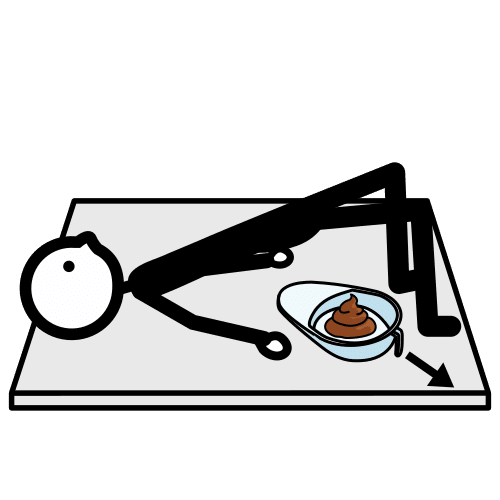
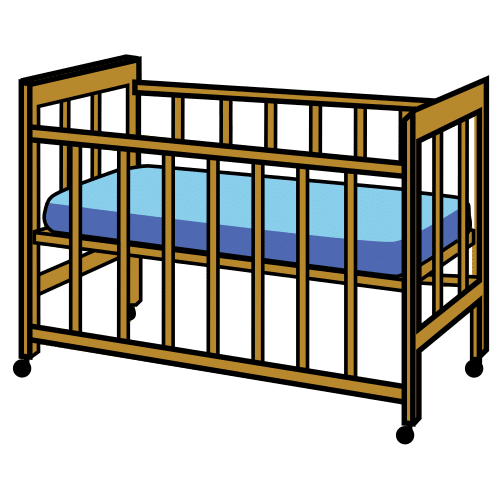
cuñaaa xD

diff --git a/js/datos.js b/js/datos.js
@@ -153,7 +153,7 @@ export const PALABRAS = [
 
   // CASA
   { palabra: "SILLA", tipo: "directa", silabas: 2, categoria: "casa",       pictograma: "silla.png", buscar: "silla",        variantes: ["silla"] },
-  { palabra: "CUNA",  tipo: "directa", silabas: 2, categoria: "casa",       pictograma: "cuna.png",  buscar: "cuna bebé",    variantes: ["cuna"] },
+  { palabra: "CUNA",  tipo: "directa", silabas: 2, categoria: "casa",       pictograma: "cuna.png",  buscar: "cuna", arasaac: 5980, variantes: ["cuna"] },
 
   // TRANSPORTE
   { palabra: "COCHE", tipo: "directa", silabas: 2, categoria: "transporte", pictograma: "coche.png", buscar: "coche",        variantes: ["coche"] },
@@ -183,6 +183,112 @@ export const PALABRAS = [
   { palabra: "CINCO", tipo: "directa", silabas: 2, categoria: "numeros",    pictograma: "cinco.png", buscar: "cinco", arasaac: 2631, variantes: ["cinco"] },
   { palabra: "OCHO",  tipo: "directa", silabas: 2, categoria: "numeros",    pictograma: "ocho.png",  buscar: "ocho",  arasaac: 2634, variantes: ["ocho"] },
   { palabra: "NUEVE", tipo: "directa", silabas: 2, categoria: "numeros",    pictograma: "nueve.png", buscar: "nueve", arasaac: 2635, variantes: ["nueve"] },
+
+  // ===========================================================================
+  //  COLORES  ·  pictograma = mancha/cuadro del color (ids fijos de ARASAAC)
+  // ===========================================================================
+  { palabra: "ROJO",     tipo: "directa", silabas: 2, categoria: "colores", pictograma: "rojo.png",     buscar: "rojo",     arasaac: 2808, variantes: ["rojo", "roja"] },
+  { palabra: "AZUL",     tipo: "inversa", silabas: 2, categoria: "colores", pictograma: "azul.png",     buscar: "azul",     arasaac: 4869, variantes: ["azul"] },
+  { palabra: "VERDE",    tipo: "inversa", silabas: 2, categoria: "colores", pictograma: "verde.png",    buscar: "verde",    arasaac: 4887, variantes: ["verde"] },
+  { palabra: "AMARILLO", tipo: "directa", silabas: 4, categoria: "colores", pictograma: "amarillo.png", buscar: "amarillo", arasaac: 2648, variantes: ["amarillo", "amarilla"] },
+  { palabra: "NARANJA",  tipo: "directa", silabas: 3, categoria: "colores", pictograma: "naranja.png",  buscar: "naranja",  arasaac: 2888, variantes: ["naranja"] },
+  { palabra: "ROSA",     tipo: "directa", silabas: 2, categoria: "colores", pictograma: "rosa.png",     buscar: "rosa",     arasaac: 3151, variantes: ["rosa"] },
+  { palabra: "MORADO",   tipo: "directa", silabas: 3, categoria: "colores", pictograma: "morado.png",   buscar: "morado",   arasaac: 2907, variantes: ["morado", "morada", "violeta"] },
+  { palabra: "MARRÓN",   tipo: "directa", silabas: 2, categoria: "colores", pictograma: "marron.png",   buscar: "marrón",   arasaac: 2923, variantes: ["marron", "marrón"] },
+  { palabra: "NEGRO",    tipo: "trabada", silabas: 2, categoria: "colores", pictograma: "negro.png",    buscar: "negro",    arasaac: 2886, variantes: ["negro", "negra"] },
+  { palabra: "BLANCO",   tipo: "trabada", silabas: 2, categoria: "colores", pictograma: "blanco.png",   buscar: "blanco",   arasaac: 8043, variantes: ["blanco", "blanca"] },
+
+  // ===========================================================================
+  //  VERBOS  ·  acciones (pictograma de la acción)
+  // ===========================================================================
+  { palabra: "COMER",    tipo: "directa", silabas: 2, categoria: "verbos", pictograma: "comer.png",    buscar: "comer",    arasaac: 6456,  variantes: ["comer"] },
+  { palabra: "BEBER",    tipo: "directa", silabas: 2, categoria: "verbos", pictograma: "beber.png",    buscar: "beber",    arasaac: 6061,  variantes: ["beber"] },
+  { palabra: "CORRER",   tipo: "directa", silabas: 2, categoria: "verbos", pictograma: "correr.png",   buscar: "correr",   arasaac: 6465,  variantes: ["correr"] },
+  { palabra: "SALTAR",   tipo: "inversa", silabas: 2, categoria: "verbos", pictograma: "saltar.png",   buscar: "saltar",   arasaac: 39052, variantes: ["saltar"] },
+  { palabra: "JUGAR",    tipo: "directa", silabas: 2, categoria: "verbos", pictograma: "jugar.png",    buscar: "jugar",    arasaac: 23392, variantes: ["jugar"] },
+  { palabra: "DORMIR",   tipo: "trabada", silabas: 2, categoria: "verbos", pictograma: "dormir.png",   buscar: "dormir",   arasaac: 6479,  variantes: ["dormir"] },
+  { palabra: "LLORAR",   tipo: "trabada", silabas: 2, categoria: "verbos", pictograma: "llorar.png",   buscar: "llorar",   arasaac: 7147,  variantes: ["llorar"] },
+  { palabra: "REÍR",     tipo: "directa", silabas: 2, categoria: "verbos", pictograma: "reir.png",     buscar: "reír",     arasaac: 13354, variantes: ["reir", "reír", "sonreir"] },
+  { palabra: "CANTAR",   tipo: "directa", silabas: 2, categoria: "verbos", pictograma: "cantar.png",   buscar: "cantar",   arasaac: 6960,  variantes: ["cantar"] },
+  { palabra: "BAILAR",   tipo: "directa", silabas: 2, categoria: "verbos", pictograma: "bailar.png",   buscar: "bailar",   arasaac: 6052,  variantes: ["bailar"] },
+  { palabra: "PINTAR",   tipo: "directa", silabas: 2, categoria: "verbos", pictograma: "pintar.png",   buscar: "pintar",   arasaac: 2348,  variantes: ["pintar"] },
+  { palabra: "LAVAR",    tipo: "directa", silabas: 2, categoria: "verbos", pictograma: "lavar.png",    buscar: "lavar",    arasaac: 34826, variantes: ["lavar"] },
+  { palabra: "ANDAR",    tipo: "inversa", silabas: 2, categoria: "verbos", pictograma: "andar.png",    buscar: "andar",    arasaac: 6044,  variantes: ["andar", "caminar"] },
+  { palabra: "SUBIR",    tipo: "directa", silabas: 2, categoria: "verbos", pictograma: "subir.png",    buscar: "subir",    arasaac: 24725, variantes: ["subir"] },
+  { palabra: "MIRAR",    tipo: "directa", silabas: 2, categoria: "verbos", pictograma: "mirar.png",    buscar: "mirar",    arasaac: 6564,  variantes: ["mirar", "ver"] },
+  { palabra: "ABRIR",    tipo: "trabada", silabas: 2, categoria: "verbos", pictograma: "abrir.png",    buscar: "abrir",    arasaac: 24825, variantes: ["abrir"] },
+  { palabra: "TRABAJAR", tipo: "trabada", silabas: 3, categoria: "verbos", pictograma: "trabajar.png", buscar: "trabajar", arasaac: 6624,  variantes: ["trabajar"] },
+
+  // ===========================================================================
+  //  MÁS VOCABULARIO  ·  sustantivos comunes
+  // ===========================================================================
+  { palabra: "MANZANA",  tipo: "directa", silabas: 3, categoria: "comida",    pictograma: "manzana.png",  buscar: "manzana",  arasaac: 2462,  variantes: ["manzana"] },
+  { palabra: "PLÁTANO",  tipo: "trabada", silabas: 3, categoria: "comida",    pictograma: "platano.png",  buscar: "plátano",  arasaac: 2530,  variantes: ["platano", "plátano"] },
+  { palabra: "GALLETA",  tipo: "directa", silabas: 3, categoria: "comida",    pictograma: "galleta.png",  buscar: "galleta",  arasaac: 8312,  variantes: ["galleta"] },
+  { palabra: "TOMATE",   tipo: "directa", silabas: 3, categoria: "comida",    pictograma: "tomate.png",   buscar: "tomate",   arasaac: 2594,  variantes: ["tomate"] },
+  { palabra: "ZAPATO",   tipo: "directa", silabas: 3, categoria: "ropa",      pictograma: "zapato.png",   buscar: "zapato",   arasaac: 32923, variantes: ["zapato"] },
+  { palabra: "LEÓN",     tipo: "directa", silabas: 2, categoria: "animales",  pictograma: "leon.png",     buscar: "león",     arasaac: 25187, variantes: ["leon", "león"] },
+  { palabra: "RATÓN",    tipo: "directa", silabas: 2, categoria: "animales",  pictograma: "raton.png",    buscar: "ratón",    arasaac: 2546,  variantes: ["raton", "ratón"] },
+  { palabra: "CONEJO",   tipo: "directa", silabas: 3, categoria: "animales",  pictograma: "conejo.png",   buscar: "conejo",   arasaac: 2351,  variantes: ["conejo"] },
+  { palabra: "CERDO",    tipo: "trabada", silabas: 2, categoria: "animales",  pictograma: "cerdo.png",    buscar: "cerdo",    arasaac: 24972, variantes: ["cerdo"] },
+  { palabra: "CABALLO",  tipo: "directa", silabas: 3, categoria: "animales",  pictograma: "caballo.png",  buscar: "caballo",  arasaac: 2294,  variantes: ["caballo"] },
+  { palabra: "ELEFANTE", tipo: "directa", silabas: 4, categoria: "animales",  pictograma: "elefante.png", buscar: "elefante", arasaac: 2372,  variantes: ["elefante"] },
+  { palabra: "PELOTA",   tipo: "directa", silabas: 3, categoria: "juguetes",  pictograma: "pelota.png",   buscar: "pelota",   arasaac: 3241,  variantes: ["pelota"] },
+
+  // ===========================================================================
+  //  CUARTOS DE LA CASA  ·  habitaciones
+  // ===========================================================================
+  { palabra: "COCINA",     tipo: "directa", silabas: 3, categoria: "habitaciones", pictograma: "cocina.png",     buscar: "cocina",     arasaac: 10752, variantes: ["cocina"] },
+  { palabra: "SALÓN",      tipo: "directa", silabas: 2, categoria: "habitaciones", pictograma: "salon.png",      buscar: "salón",      arasaac: 6211,  variantes: ["salon", "salón"] },
+  { palabra: "BAÑO",       tipo: "directa", silabas: 2, categoria: "habitaciones", pictograma: "bano.png",       buscar: "cuarto de baño", arasaac: 6929, variantes: ["baño", "bano"] },
+  { palabra: "DORMITORIO", tipo: "trabada", silabas: 4, categoria: "habitaciones", pictograma: "dormitorio.png", buscar: "dormitorio", arasaac: 5988,  variantes: ["dormitorio", "habitacion"] },
+  { palabra: "JARDÍN",     tipo: "inversa", silabas: 2, categoria: "habitaciones", pictograma: "jardin.png",     buscar: "jardín",     arasaac: 2434,  variantes: ["jardin", "jardín"] },
+  { palabra: "GARAJE",     tipo: "directa", silabas: 3, categoria: "habitaciones", pictograma: "garaje.png",     buscar: "garaje",     arasaac: 6003,  variantes: ["garaje"] },
+
+  // ===========================================================================
+  //  EL BAÑO  ·  objetos del cuarto de baño
+  // ===========================================================================
+  { palabra: "DUCHA",   tipo: "directa", silabas: 2, categoria: "bano", pictograma: "ducha.png",   buscar: "ducha",   arasaac: 32426, variantes: ["ducha"] },
+  { palabra: "VÁTER",   tipo: "directa", silabas: 2, categoria: "bano", pictograma: "vater.png",   buscar: "váter",   arasaac: 2430,  variantes: ["vater", "váter", "water", "inodoro"] },
+  { palabra: "LAVABO",  tipo: "directa", silabas: 3, categoria: "bano", pictograma: "lavabo.png",  buscar: "lavabo",  arasaac: 2441,  variantes: ["lavabo"] },
+  { palabra: "BAÑERA",  tipo: "directa", silabas: 3, categoria: "bano", pictograma: "banera.png",  buscar: "bañera",  arasaac: 2272,  variantes: ["bañera", "banera"] },
+  { palabra: "ESPEJO",  tipo: "inversa", silabas: 3, categoria: "bano", pictograma: "espejo.png",  buscar: "espejo",  arasaac: 8573,  variantes: ["espejo"] },
+  { palabra: "TOALLA",  tipo: "directa", silabas: 3, categoria: "bano", pictograma: "toalla.png",  buscar: "toalla",  arasaac: 2593,  variantes: ["toalla"] },
+  { palabra: "JABÓN",   tipo: "directa", silabas: 2, categoria: "bano", pictograma: "jabon.png",   buscar: "jabón",   arasaac: 8094,  variantes: ["jabon", "jabón"] },
+  { palabra: "CEPILLO", tipo: "directa", silabas: 3, categoria: "bano", pictograma: "cepillo.png", buscar: "cepillo de dientes", arasaac: 2694, variantes: ["cepillo"] },
+
+  // ===========================================================================
+  //  COCINA  ·  objetos
+  // ===========================================================================
+  { palabra: "NEVERA",  tipo: "directa", silabas: 3, categoria: "cocina", pictograma: "nevera.png",  buscar: "nevera",  arasaac: 3272, variantes: ["nevera", "frigorifico"] },
+  { palabra: "HORNO",   tipo: "inversa", silabas: 2, categoria: "cocina", pictograma: "horno.png",   buscar: "horno",   arasaac: 2426, variantes: ["horno"] },
+  { palabra: "SARTÉN",  tipo: "inversa", silabas: 2, categoria: "cocina", pictograma: "sarten.png",  buscar: "sartén",  arasaac: 2558, variantes: ["sarten", "sartén"] },
+  { palabra: "CUCHARA", tipo: "directa", silabas: 3, categoria: "cocina", pictograma: "cuchara.png", buscar: "cuchara", arasaac: 2362, variantes: ["cuchara"] },
+  { palabra: "TENEDOR", tipo: "directa", silabas: 3, categoria: "cocina", pictograma: "tenedor.png", buscar: "tenedor", arasaac: 2588, variantes: ["tenedor"] },
+  { palabra: "VASO",    tipo: "directa", silabas: 2, categoria: "cocina", pictograma: "vaso.png",    buscar: "vaso",    arasaac: 2610, variantes: ["vaso"] },
+
+  // ===========================================================================
+  //  LA CASA  ·  objetos del salón y la casa
+  // ===========================================================================
+  { palabra: "SOFÁ",     tipo: "directa", silabas: 2, categoria: "casa", pictograma: "sofa.png",     buscar: "sofá",     arasaac: 25479, variantes: ["sofa", "sofá"] },
+  { palabra: "TELE",     tipo: "directa", silabas: 2, categoria: "casa", pictograma: "tele.png",     buscar: "televisión", arasaac: 25498, variantes: ["tele", "television", "televisor"] },
+  { palabra: "LÁMPARA",  tipo: "directa", silabas: 3, categoria: "casa", pictograma: "lampara.png",  buscar: "lámpara",  arasaac: 4936,  variantes: ["lampara", "lámpara"] },
+  { palabra: "PUERTA",   tipo: "directa", silabas: 2, categoria: "casa", pictograma: "puerta.png",   buscar: "puerta",   arasaac: 3244,  variantes: ["puerta"] },
+  { palabra: "VENTANA",  tipo: "directa", silabas: 3, categoria: "casa", pictograma: "ventana.png",  buscar: "ventana",  arasaac: 2611,  variantes: ["ventana"] },
+  { palabra: "RELOJ",    tipo: "directa", silabas: 2, categoria: "casa", pictograma: "reloj.png",    buscar: "reloj",    arasaac: 2549,  variantes: ["reloj"] },
+  { palabra: "ARMARIO",  tipo: "inversa", silabas: 3, categoria: "casa", pictograma: "armario.png",  buscar: "armario",  arasaac: 2258,  variantes: ["armario", "ropero"] },
+  { palabra: "ESCALERA", tipo: "inversa", silabas: 4, categoria: "casa", pictograma: "escalera.png", buscar: "escalera", arasaac: 2379,  variantes: ["escalera"] },
+  { palabra: "LLAVE",    tipo: "directa", silabas: 2, categoria: "casa", pictograma: "llave.png",    buscar: "llave",    arasaac: 8153,  variantes: ["llave"] },
+
+  // ===========================================================================
+  //  LUGARES  ·  sitios fuera de casa
+  // ===========================================================================
+  { palabra: "PARQUE",   tipo: "inversa", silabas: 2, categoria: "lugares", pictograma: "parque.png",   buscar: "parque",   arasaac: 2859,  variantes: ["parque"] },
+  { palabra: "COLEGIO",  tipo: "directa", silabas: 3, categoria: "lugares", pictograma: "colegio.png",  buscar: "colegio",  arasaac: 32446, variantes: ["colegio", "cole", "escuela"] },
+  { palabra: "GRANJA",   tipo: "trabada", silabas: 2, categoria: "lugares", pictograma: "granja.png",   buscar: "granja",   arasaac: 32482, variantes: ["granja"] },
+  { palabra: "PISCINA",  tipo: "directa", silabas: 3, categoria: "lugares", pictograma: "piscina.png",  buscar: "piscina",  arasaac: 30516, variantes: ["piscina"] },
+  { palabra: "MONTAÑA",  tipo: "directa", silabas: 3, categoria: "lugares", pictograma: "montana.png",  buscar: "montaña",  arasaac: 2909,  variantes: ["montaña", "montana"] },
+  { palabra: "ZOO",      tipo: "directa", silabas: 1, categoria: "lugares", pictograma: "zoo.png",      buscar: "zoo",      arasaac: 4773,  variantes: ["zoo", "zoologico"] },
 ];
 
 // Tipos de sílaba disponibles (para los botones del panel del adulto)
@@ -330,13 +436,17 @@ export const CATEGORIAS = [
   { id: "comida",     nombre: "Comida",     emoji: "🍎" },
   { id: "cuerpo",     nombre: "El cuerpo",  emoji: "✋" },
   { id: "casa",       nombre: "La casa",    emoji: "🏠" },
+  { id: "habitaciones", nombre: "Cuartos",  emoji: "🚪" },
   { id: "cocina",     nombre: "Cocina",     emoji: "🍽️" },
+  { id: "bano",       nombre: "El baño",    emoji: "🚿" },
   { id: "naturaleza", nombre: "Naturaleza", emoji: "🌳" },
+  { id: "lugares",    nombre: "Lugares",    emoji: "🏞️" },
   { id: "cuentos",    nombre: "Cuentos",    emoji: "🧙" },
   { id: "objetos",    nombre: "Objetos",    emoji: "🧲" },
   { id: "juguetes",   nombre: "Juguetes",   emoji: "🪁" },
   { id: "transporte", nombre: "Transporte", emoji: "🚗" },
   { id: "ropa",       nombre: "Ropa",       emoji: "👕" },
+  { id: "verbos",     nombre: "Acciones",   emoji: "🏃" },
   { id: "colores",    nombre: "Colores",    emoji: "🎨" },
   { id: "numeros",    nombre: "Números",    emoji: "🔢" },
   { id: "deportes",   nombre: "Deportes",   emoji: "⚽" },

diff --git a/js/app.js b/js/app.js
@@ -42,6 +42,7 @@ const reconocedor = new Reconocedor();
 // a pulsar el micro. En "diversión máxima" se enciende automáticamente.
 let escuchando = false;       // ¿el motor de escucha está encendido?
 let intentosVacios = 0;       // silencios seguidos (para no escuchar eternamente)
+let enCelebracion = false;    // evita avanzar dos veces si se pulsa rápido (✓✓)
 
 // ---- Progreso por palabra (qué domina y qué le cuesta a Daniela) -----------
 // Se guarda en el navegador. Alimenta la "práctica inteligente" y el "entreno".
@@ -338,10 +339,31 @@ function prepararMazo() {
 
 function palabraActual() { return mazo[indice]; }
 
+// Precarga los dibujos de las PRÓXIMAS palabras para que aparezcan al instante.
+function precargarSiguientePicto() {
+  for (let i = 1; i <= 2; i++) {
+    const sig = mazo[indice + i];
+    if (sig && sig.pictograma) { const im = new Image(); im.src = `img/pictogramas/${sig.pictograma}`; }
+  }
+}
+
+// Texto que la app PRONUNCIA. Las sílabas se dicen en minúscula para que el
+// sintetizador las lea como sílaba ("ma") y no deletreadas ("eme a").
+function vozDe(p) {
+  if (!p) return "";
+  return p.esSilaba ? p.texto.toLowerCase() : p.palabra;
+}
+
 function mostrarPalabra() {
   const p = palabraActual();
   if (!p) return;
   fallosEstaPalabra = 0;
+  enCelebracion = false;        // nueva palabra: listo para volver a aceptar aciertos
+
+  // Entrada suave del contenido (fundido) cada vez que cambia la palabra
+  elTarjeta.classList.remove("entra");
+  void elTarjeta.offsetWidth;   // reinicia la animación
+  elTarjeta.classList.add("entra");
 
   if (p.esSilaba) {
     // ── Modo Lectura Silábica: sin pictograma, texto grande ──────────────────
@@ -359,6 +381,8 @@ function mostrarPalabra() {
     else if (ajustes.imagen === "entreno") conDibujo = nivelDom(p) < UMBRAL_DOMINADA;
     elPicto.style.display = conDibujo ? "" : "none";
     elTarjeta.classList.toggle("solo-texto", !conDibujo);
+
+    precargarSiguientePicto();   // transición instantánea a la próxima palabra
   }
 
   elEstado.textContent = ajustes.diversion
@@ -401,6 +425,9 @@ function actualizarBotonSonido() {
 //  ¡ACIERTO!  ·  celebración y avance
 // ============================================================================
 function acertar() {
+  if (enCelebracion) return;     // ya estamos celebrando: ignora toques repetidos
+  enCelebracion = true;
+  if (navigator.vibrate) navigator.vibrate(60);   // vibración suave de premio (Android)
   reconocedor.parar();           // detiene la captación actual (el motor sigue "encendido")
   elMic.classList.remove("pista", "escuchando");
   const p = palabraActual();
@@ -496,6 +523,20 @@ function puedeEscuchar() {
   return escuchando && !panel.classList.contains("abierto");
 }
 
+// ---- Mantener la pantalla encendida mientras se juega -----------------------
+let wakeLock = null;
+async function pedirWakeLock() {
+  try {
+    if ("wakeLock" in navigator && document.visibilityState === "visible") {
+      wakeLock = await navigator.wakeLock.request("screen");
+    }
+  } catch { /* sin soporte o denegado: no pasa nada */ }
+}
+// Si se vuelve a la app (cambió de pestaña), recupera el bloqueo
+document.addEventListener("visibilitychange", () => {
+  if (document.visibilityState === "visible") pedirWakeLock();
+});
+
 // Pulsar el micro: enciende o apaga el motor (interruptor)
 function alPulsarMic() {
   if (escuchando) { pararMotorEscucha(); return; }
@@ -505,6 +546,7 @@ function alPulsarMic() {
   }
   escuchando = true;
   intentosVacios = 0;
+  pedirWakeLock();
   escucharUnaVez();
 }
 
@@ -561,7 +603,7 @@ function reintentar(p) {
   if (!ajustes.diversion) elEstado.textContent = "Casi… escucha 👂";
   elTarjeta.classList.add("anima-pista");
   setTimeout(() => elTarjeta.classList.remove("anima-pista"), 700);
-  decirEnVozAlta(`Escucha. ${p.palabra}.`, {
+  decirEnVozAlta(`Escucha. ${vozDe(p)}.`, {
     rate: 0.7,
     alFinal: () => { if (puedeEscuchar()) escucharUnaVez(); },
   });
@@ -576,6 +618,7 @@ function aplicarModoDiversion() {
   if (ajustes.diversion) {
     if (!escuchando && reconocedor.soportado) { escuchando = true; intentosVacios = 0; }
     elEstado.textContent = "¡Di la palabra y explota el globo! 🎈";
+    pedirWakeLock();
     if (puedeEscuchar()) escucharUnaVez();
   } else {
     pararMotorEscucha();
@@ -826,15 +869,20 @@ function construirPanel() {
 // ============================================================================
 function iniciar() {
   elMic.addEventListener("click", alPulsarMic);
+  // Si un dibujo no carga, muestra solo la palabra (nunca un icono roto)
+  elPicto.addEventListener("error", () => {
+    elPicto.style.display = "none";
+    elTarjeta.classList.add("solo-texto");
+  });
   // Tocar el pictograma también suena la palabra (además del botón 🔊)
-  elPicto.addEventListener("click", () => decirEnVozAlta(palabraActual()?.palabra || ""));
+  elPicto.addEventListener("click", () => decirEnVozAlta(vozDe(palabraActual())));
   // Explotar el globo de recompensa
   elGlobo.addEventListener("click", explotarGlobo);
   capaGlobo.addEventListener("click", explotarGlobo);
 
   $("#boton-correcto").addEventListener("click", acertar);      // ✓ del adulto
-  $("#boton-saltar").addEventListener("click", siguiente);      // ⏭️ saltar
-  $("#boton-oir").addEventListener("click", () => decirEnVozAlta(palabraActual()?.palabra || ""));
+  $("#boton-saltar").addEventListener("click", () => { if (!enCelebracion) siguiente(); }); // ⏭️ saltar
+  $("#boton-oir").addEventListener("click", () => decirEnVozAlta(vozDe(palabraActual())));
 
   // Botón en pantalla: activar/desactivar el sonido modelo (modo "Por sonidos")
   elBotonSonido.addEventListener("click", () => {

diff --git a/js/reconocimiento.js b/js/reconocimiento.js
@@ -143,11 +143,33 @@ export class Reconocedor {
 // ============================================================================
 //  VOZ DE MODELO  ·  la app pronuncia la palabra para que la niña la oiga
 // ============================================================================
+
+// Elegimos UNA buena voz en español y la reutilizamos. Las voces se cargan de
+// forma asíncrona en algunos navegadores, por eso escuchamos onvoiceschanged.
+let vozES = null;
+function elegirMejorVoz() {
+  if (!("speechSynthesis" in window)) return;
+  const voces = window.speechSynthesis.getVoices();
+  if (!voces.length) return;
+  const es = voces.filter((v) => /^es/i.test(v.lang));
+  // Preferimos español de España y, dentro de eso, voces de mayor calidad.
+  vozES =
+    es.find((v) => /es[-_]ES/i.test(v.lang) &&
+      /google|natural|premium|enhanced|neural|mónica|monica|helena|lucia|sabina/i.test(v.name)) ||
+    es.find((v) => /es[-_]ES/i.test(v.lang)) ||
+    es[0] || null;
+}
+if ("speechSynthesis" in window) {
+  elegirMejorVoz();
+  window.speechSynthesis.onvoiceschanged = elegirMejorVoz;
+}
+
 export function decirEnVozAlta(texto, { rate = 0.8, pitch = 1.1, alFinal } = {}) {
   if (!("speechSynthesis" in window)) { alFinal && alFinal(); return; }
   window.speechSynthesis.cancel();
   const u = new SpeechSynthesisUtterance(texto);
   u.lang = "es-ES";
+  if (vozES) u.voice = vozES;   // mejor voz disponible (si la hay)
   u.rate = rate;   // un poco más lento, para que se entienda bien
   u.pitch = pitch;
   if (alFinal) u.onend = alFinal;

diff --git a/sw.js b/sw.js
@@ -1,8 +1,27 @@
 // Service worker mínimo: guarda los archivos para que la app funcione sin
 // internet una vez abierta la primera vez. Sube la versión al cambiar archivos.
-const CACHE = "daniela-hablar-v2";
+const CACHE = "daniela-hablar-v3";
+
+// Archivos básicos de la app (el "esqueleto"). Si alguno fallara, no rompe la
+// instalación: cada uno se cachea por separado.
+const NUCLEO = [
+  "./",
+  "index.html",
+  "manifest.json",
+  "css/estilos.css",
+  "js/app.js",
+  "js/datos.js",
+  "js/reconocimiento.js",
+  "img/icono-192.png",
+  "img/icono-512.png",
+];
 
 self.addEventListener("install", (e) => {
+  e.waitUntil(
+    caches.open(CACHE).then((c) =>
+      Promise.allSettled(NUCLEO.map((url) => c.add(url)))
+    )
+  );
   self.skipWaiting();
 });
 

diff --git a/css/estilos.css b/css/estilos.css
@@ -55,6 +55,7 @@
 *, *::before, *::after {
   box-sizing: border-box;
   -webkit-tap-highlight-color: transparent;
+  touch-action: manipulation;   /* toques instantáneos, sin zoom por doble toque */
 }
 
 html, body {
@@ -169,6 +170,19 @@ body {
   0%,100% { transform: scale(1) rotate(0deg); }
   30%     { transform: scale(1.10) rotate(-2.5deg); }
   65%     { transform: scale(1.05) rotate(2deg); }
+}
+
+/* Entrada suave del contenido al cambiar de palabra (solo opacidad, para no
+   chocar con la flotación del globo en "diversión máxima") */
+.tarjeta.entra .palabra,
+.tarjeta.entra .pictograma { animation: aparecerContenido 0.3s ease both; }
+@keyframes aparecerContenido {
+  from { opacity: 0; }
+  to   { opacity: 1; }
+}
+@media (prefers-reduced-motion: reduce) {
+  .tarjeta.entra .palabra,
+  .tarjeta.entra .pictograma { animation: none; }
 }
 
 /* ── Pictograma ────────────────────────────────────────────────────────── */